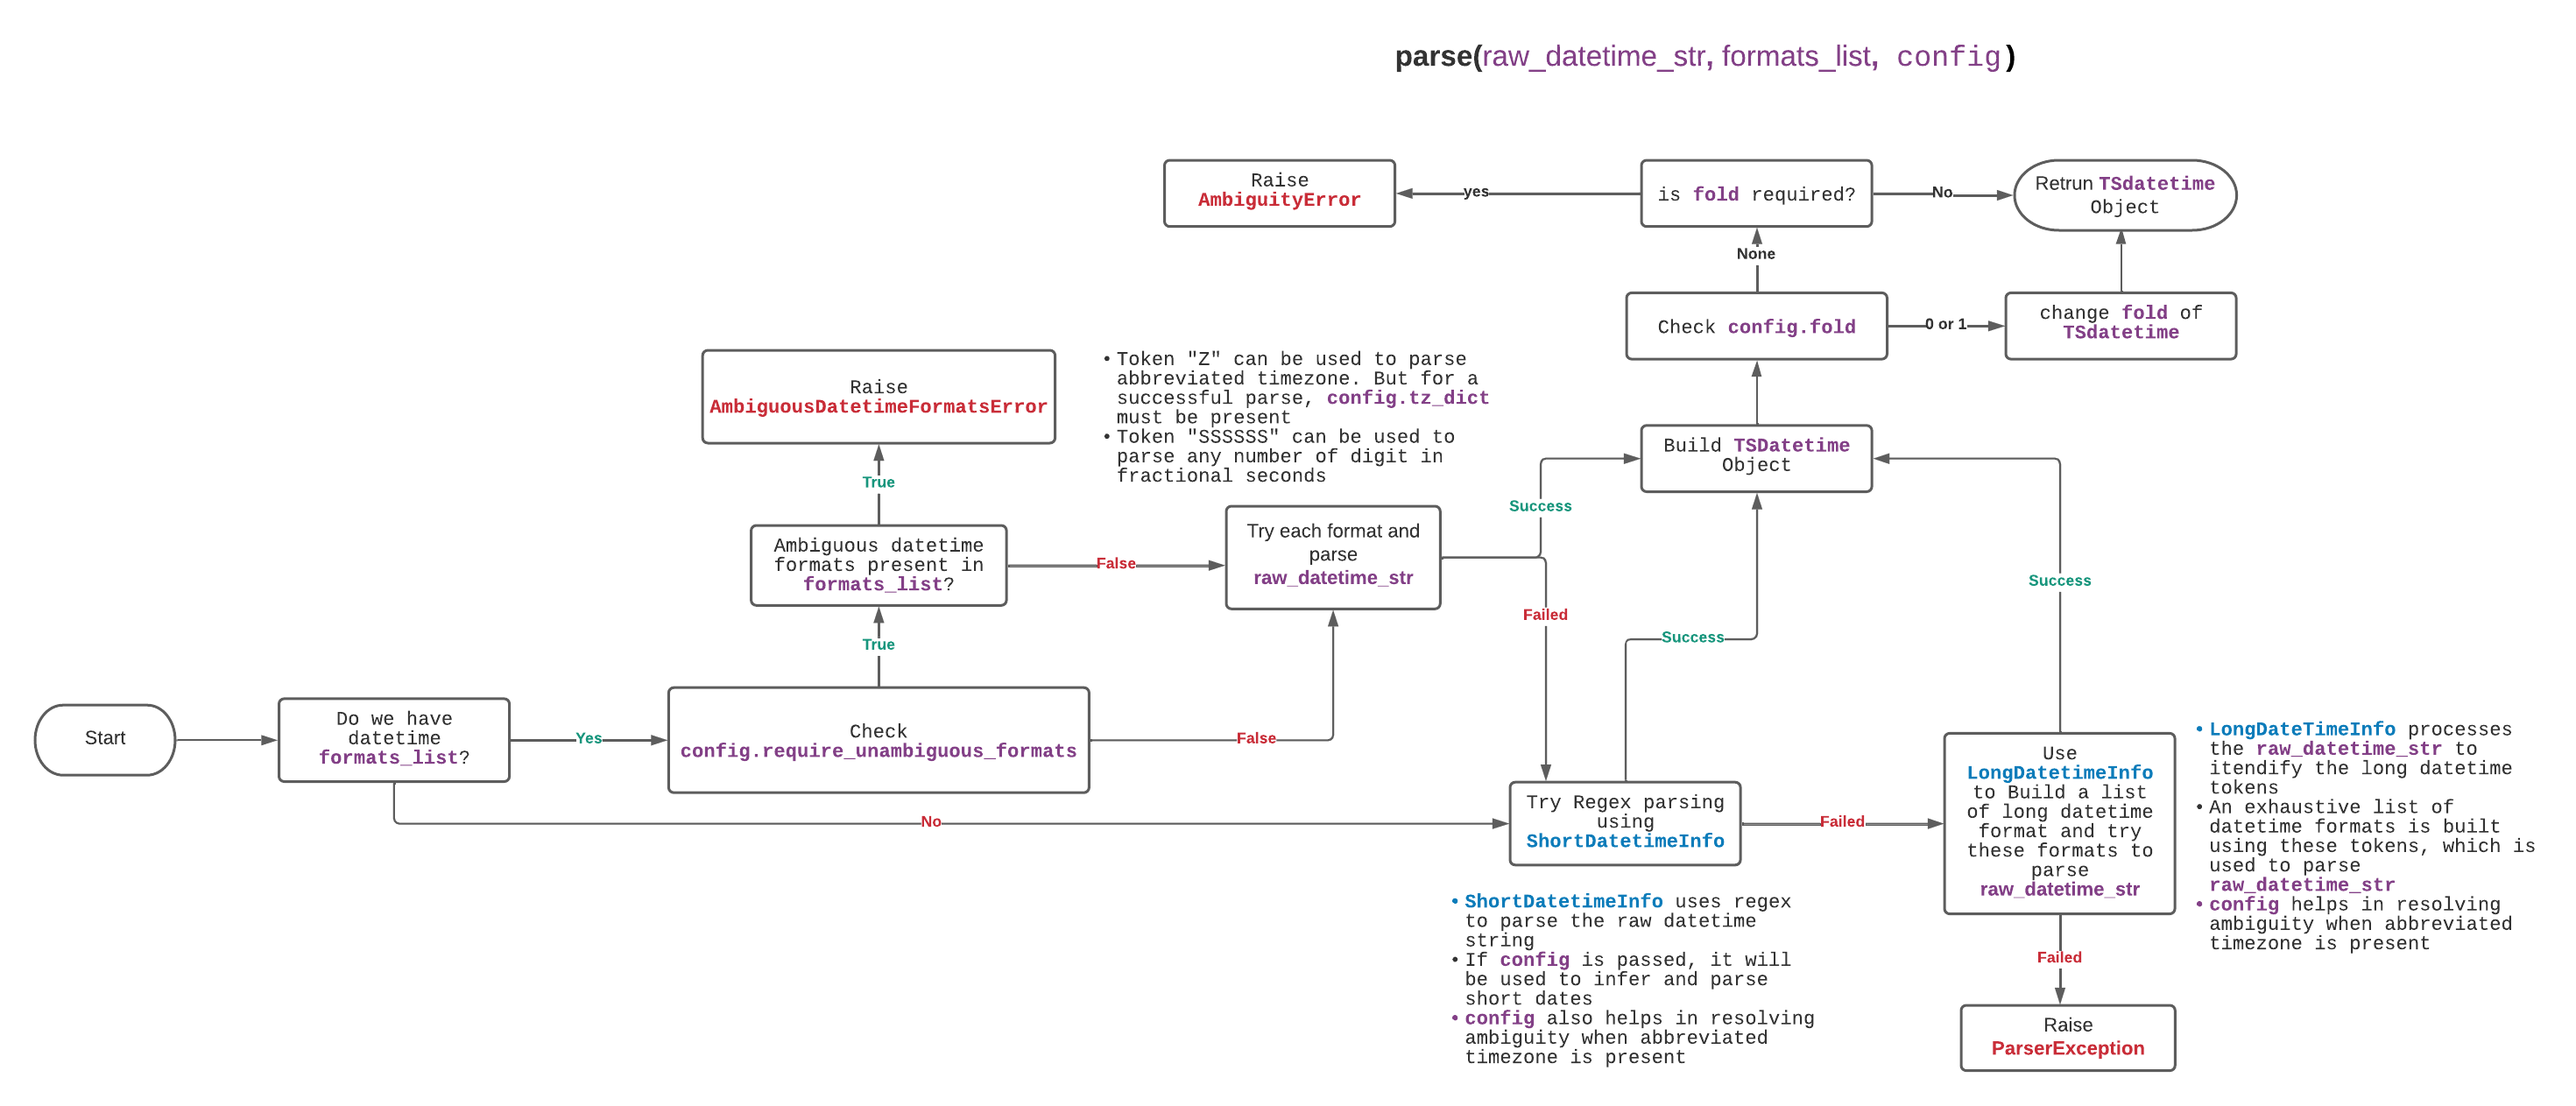
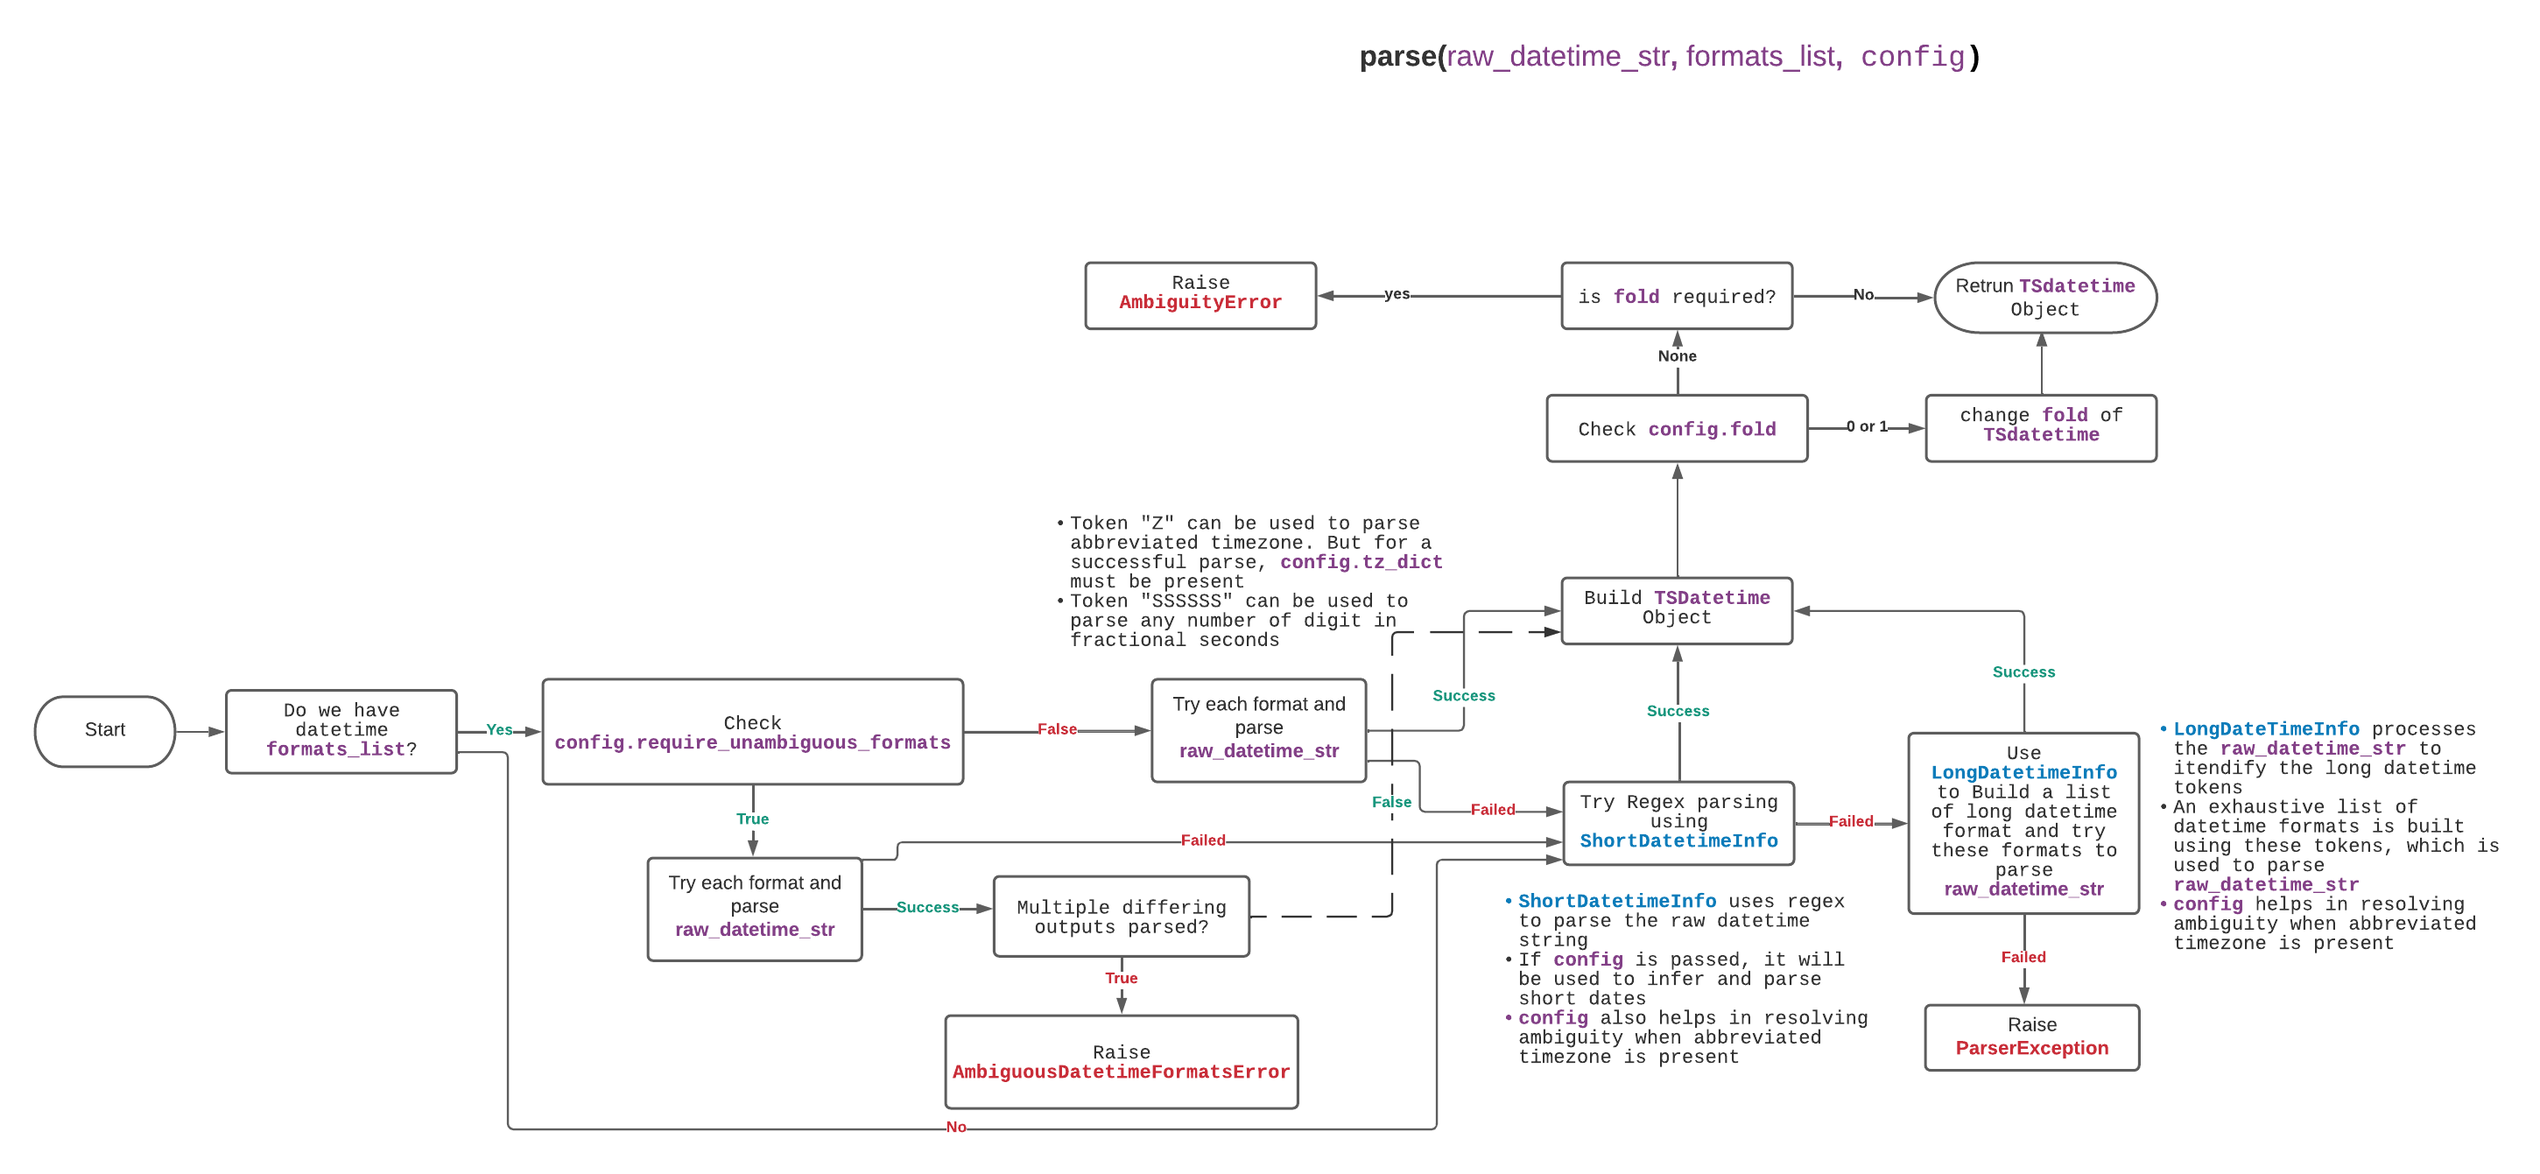
DE-3484 Update Usage and parse-white.png in README. Change exception text

diff --git a/task_script_utils/datetime_parser/parser.py b/task_script_utils/datetime_parser/parser.py
@@ -28,8 +28,8 @@ def parse(
     Args:
         datetime_raw_str (str): Raw datetime string
         formats (Sequence[str], optional): List of possible datetime
-        formats. Defaults to empty tuple.
-        These datetime formats must be built using `pendulum` datetime tokens.
+        formats. These datetime formats must be built using `pendulum` datetime tokens.
+        Defaults to empty tuple.
         config (DatetimeConfig, optional): Datetime Configuration.
         Defaults to DEFAULT_DATETIME_CONFIG.
 
@@ -162,8 +162,8 @@ def _parse_with_formats(
             if len(Counter(unique_parsed_times).values()) > 1:
                 raise AmbiguousDatetimeFormatsError(
                     "Ambiguity found between datetime formats: "
-                    f"{[parsed_time[1] for parsed_time in parsed_times]} and the parsed"
-                    f" datetimes {list(unique_parsed_times.keys())} for the input"
+                    f"{[parsed_time[1] for parsed_time in parsed_times]}, the parsed"
+                    f" datetimes {list(unique_parsed_times.keys())}, and the input"
                     f" datetime string '{datetime_str}'."
                 )
             else:

diff --git a/task_script_utils/datetime_parser/README.md b/task_script_utils/datetime_parser/README.md
@@ -6,6 +6,9 @@ v1.2.0
 ## Table of Contents <!-- omit in toc -->
 
 - [Usage](#usage)
+  - [Input](#input)
+  - [Output](#output)
+  - [Examples](#examples)
 - [Unambiguous Datetime](#unambiguous-datetime)
 - [Ambiguous Datetime](#ambiguous-datetime)
 - [Working with formats](#working-with-formats)
@@ -20,27 +23,71 @@ v1.2.0
 
 ## Usage
 
-`from task_script_utils.datetime_parser import parse`
+### Input
 
-Input:
+ - `datetime_raw_str (str)`: Raw datetime string
+ - `formats (Sequence[str], optional)`: List of possible datetime formats. These datetime formats must be built using pendulum datetime tokens. Defaults to empty tuple.
+   - If the `DatetimeConfig` object in the `config` position has `require_unambiguous_formats` set to:
+     - `True` and any of the formats produce a conflicting output, an `AmbiguousDatetimeFormatsError` will be raised.
+     - `False`, the first valid parsed datetime valid will be returned.
+ - `config (DatetimeConfig, optional)`: Datetime Configuration. Defaults to `DEFAULT_DATETIME_CONFIG`.
+   - It provides complementary information on how to mark parsed digits as day, month or year and also provide options to handle abbreviated time zones and fold for parsing ambiguous timestamps during daylight saving transitions. Ideally, `DatetimeConfig` should be constructed from the pipeline configuration with the following options:
+    - `day_first`: Whether to interpret the first value in an ambiguous 3-integer date (e.g. 01/05/09) as the day (`True`) or month (`False`). Defaults to `None`.
+    - `year_first`: Whether to interpret the first value in an ambiguous 3-integer date (e.g. 01/05/09) as the year. When the year has four digits, then whether `year_first` is `True` or `False`,is decided by regex parsing done by `DatetimeInfo` class. If both `year_first` and `day_first` are true, then `year_first` will take priority and resulting date format will be as YDM. Defaults to `None`.
+    - `tz_dict`: A python dict that maps abbreviated timezone names to their corresponding offset. Defaults to `{}`.
+    - `require_unambiguous_formats`: Whether require datetime formats to be unambiguous. Defaults to `False`.
+      - If `require_unambiguous_formats` 
+        - is `True` and any of the formats produce a conflicting output, an `AmbiguousDatetimeFormatsError` will be raised.
+        - is `False`, the first valid parsed datetime valid will be returned.
 
-- `datetime_raw_str: str`: raw datetime string to be parsed.
-- `formats: Sequence[str] (optional)`: You can optionally pass a list of formats to try to parse datetime string. If `datetime_raw_str` doesn't match with any format, the datetime parser will still try to parse `datetime_raw_str` with other methods such as using regex and trying long datetime format. See below for additional behavior regarding the usage of `DatetimeConfig.require_unambiguous_formats` and `formats`.
-- `config: DatetimeConfig (optional)`: You also have an option to pass `DatetimeConfig`. It provides complementary information on how to mark parsed digits as day, month or year and also provide options to handle abbreviated time zones and fold for parsing ambiguous timestamps during daylight saving transitions. Ideally, `DatetimeConfig` should be constructed from the pipeline configuration with the following options:
-  - `day_first`: Whether to interpret the first value in an ambiguous 3-integer date (e.g. 01/05/09) as the day (`True`) or month (`False`). Defaults to `None`.
-  - `year_first`: Whether to interpret the first value in an ambiguous 3-integer date (e.g. 01/05/09) as the year. When the year has four digits, then whether `year_first` is `True` or `False`,is decided by regex parsing done by `DatetimeInfo` class. If both `year_first` and `day_first` are true, then `year_first` will take priority and resulting date format will be as YDM. Defaults to `None`.
-  - `tz_dict`: A python dict that maps abbreviated timezone names to their corresponding offset. Defaults to `{}`.
-  - `require_unambiguous_formats`: Whether require datetime formats to be unambiguous. Defaults to `False`.
-    - If `require_unambiguous_formats` 
-      - is `True` and any of the formats produce a conflicting output, an `AmbiguousDatetimeFormatsError` will be raised.
-      - is `False`, the first valid parsed datetime valid will be returned.
-
-Output:
+### Output
 
 - A `TSDatetime` object.
 
 ![Parse Flow Diagram](./parse-white.png)
 ![Short date format Resolution for two digit date parts](./short-date-format-resolution.png)
+
+
+### Examples
+
+Ambiguous input while ignoring ambiguity:
+```python
+>>> from task_script_utils.datetime_parser import parse
+
+>>> ambiguous_formats = [
+    "MM/DD/YYYY hh:mm:ss A z",
+    "DD/MM/YYYY hh:mm:ss A z",
+]
+>>> datetime_raw_str = "01/02/2003 04:05:06 AM UTC"
+>>> parsed_datetime = parse(datetime_raw_str, formats=ambiguous_formats)
+>>> parsed_datetime.tsformat() # first parsed output returned
+
+'2003-01-02T04:05:06Z'
+```
+
+Ambiguous input while requiring ambiguity:
+```python
+>>> config = DatetimeConfig(require_unambiguous_formats=True)
+>>> parsed_datetime = parse(datetime_raw_str, formats=ambiguous_formats, config=config)
+
+## Raises AmbiguousDatetimeFormatsError
+Traceback (most recent call last):
+...
+    task_script_utils.datetime_parser.parser_exceptions.AmbiguousDatetimeFormatsError: Ambiguity found between datetime formats: ['MM/DD/YYYY hh:mm:ss A z', 'DD/MM/YYYY hh:mm:ss A z'], the parsed datetimes ['2003-01-02T04:05:06+00:00', '2003-02-01T04:05:06+00:00'], and the input datetime string '01/02/2003 04:05:06 AM UTC'.
+
+
+```
+
+Forgivingly ambiguous input while requiring ambiguity:
+```python
+>>> from task_script_utils.datetime_parser import DatetimeConfig
+
+>>> datetime_raw_str = "02/02/2003 04:05:06 AM UTC"
+>>> config = DatetimeConfig(require_unambiguous_formats=True)
+>>> parsed_datetime = parse(datetime_raw_str, formats=ambiguous_formats, config=config)
+>>> parsed_datetime.tsformat()
+'2003-02-02T04:05:06Z'
+```
 
 ## Unambiguous Datetime
 
@@ -403,6 +450,8 @@ A `DatetimeConfig` object has following attributes:
 ### v1.2.0
 
 - Add `require_unambiguous_formats` to `DatetimeConfig` to enable/disable checking of ambiguous datetime formats passed to parsing functions
-- Add `check_for_mutual_ambiguity` function to check for ambiguous datetime formats passed to parsing functions
+- Add logic to `parser._parse_with_formats` to be used when `DatetimeConfig.require_unambiguous_formats` is set to `True`
+  - `AmbiguousDatetimeFormatsError` is raised if mutually ambiguous formats are detected and differing datetimes are parsed
+- Add parameter typing throughout repository
 - Add public-facing `parse_with_formats` function that only attempts to parse datetime strings using the provided formats
 - Fix exception message when trying to parse 2-digit dates without using a format to only print out the possible formats that parse to a valid datetime
